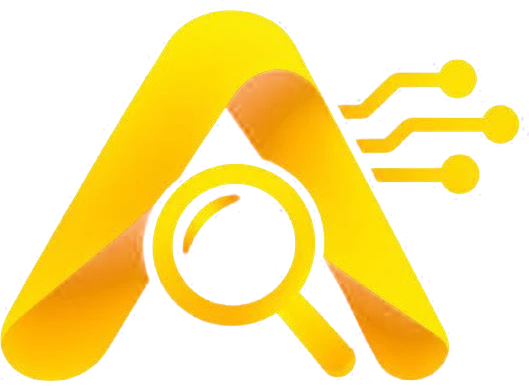
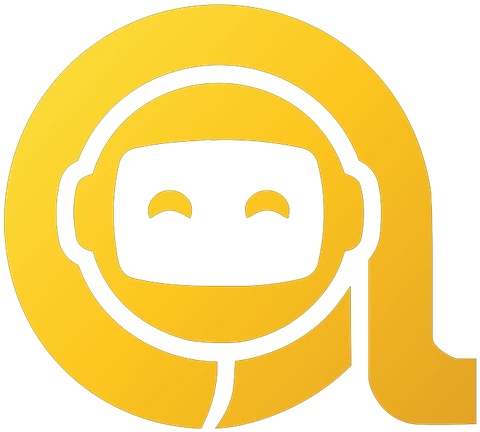
Nova identidade visual achei ai (cores, Quicksand, símbolo)

diff --git a/index.html b/index.html
@@ -3,36 +3,36 @@
 <head>
 <meta charset="utf-8">
 <meta name="viewport" content="width=device-width, initial-scale=1, viewport-fit=cover">
-<title>Achei · A IA de Xinguara no WhatsApp</title>
-<meta name="description" content="Achei: a inteligência artificial no WhatsApp que encontra os comércios de Xinguara. Preço, cardápio, horário e contato numa mensagem.">
-<meta name="theme-color" content="#0C0B08">
+<title>achei ai · A IA de Xinguara no WhatsApp</title>
+<meta name="description" content="achei ai: a inteligência artificial no WhatsApp que encontra os comércios de Xinguara. Preço, cardápio, horário e contato numa mensagem.">
+<meta name="theme-color" content="#000000">
 <link rel="icon" type="image/png" sizes="32x32" href="img/achei-fav32.png">
 <link rel="apple-touch-icon" href="img/achei-touch.png">
 <link rel="preconnect" href="https://fonts.googleapis.com">
 <link rel="preconnect" href="https://fonts.gstatic.com" crossorigin>
-<link href="https://fonts.googleapis.com/css2?family=Unbounded:wght@500;700&family=Inter:wght@400;500;600&display=swap" rel="stylesheet">
+<link href="https://fonts.googleapis.com/css2?family=Quicksand:wght@400;500;600;700&display=swap" rel="stylesheet">
 <link rel="preload" as="image" href="img/f-burger.webp">
 <style>
 :root{
-  --bg:#0C0B08; --bg2:#15130E; --bg3:#1E1B14; --linha:#2B271D;
-  --am:#FFD400; --am2:#F2A500; --creme:#F4F0E4; --txt:#CFCABB; --sec:#8F8977;
+  --bg:#000; --bg2:#0D0E10; --bg3:#1C1E22; --linha:#32353C;
+  --am:#FCC51F; --am2:#E3A225; --grad:linear-gradient(135deg,#FBE240,#FCC51F 55%,#E3A225); --creme:#fff; --txt:#CFCABB; --sec:#8F8977;
   --ease:cubic-bezier(.2,.7,.2,1); --spring:cubic-bezier(.34,1.56,.64,1);
   --gut:clamp(22px,4vw,48px); --sh:clamp(600px,100svh,1000px);
   --wa-bg:#0B141A; --wa-in:#202C33; --wa-out:#005C4B; --wa-bar:#202C33; --wa-txt:#E9EDEF; --wa-sub:#8696A0;
 }
 *{box-sizing:border-box;margin:0;padding:0}
 html{background:var(--bg);scroll-behavior:smooth}
-body{background:var(--bg);color:var(--txt);font:16px/1.6 Inter,system-ui,sans-serif;-webkit-font-smoothing:antialiased;overflow-x:hidden}
+body{background:var(--bg);color:var(--txt);font:16px/1.6 Quicksand,system-ui,sans-serif;-webkit-font-smoothing:antialiased;overflow-x:hidden}
 a{color:inherit;text-decoration:none}
 img{display:block}
-h1,h2,h3{font-family:Unbounded,Inter,sans-serif;color:var(--creme);font-weight:700;letter-spacing:-.035em;line-height:1.02}
+h1,h2,h3{font-family:Quicksand,sans-serif;color:var(--creme);font-weight:700;letter-spacing:-.02em;line-height:1.02}
 .wrap{width:100%;max-width:1280px;margin:0 auto;padding:0 var(--gut)}
 .am{color:var(--am)}
 
 /* ===== intro ===== */
 .intro{position:fixed;inset:0;z-index:100;background:var(--bg);display:grid;place-items:center;clip-path:inset(0 0 0 0);transition:clip-path 1s var(--ease)}
 .intro img{width:150px;height:auto;opacity:0;transform:scale(.6) translateY(20px);animation:simb 1.1s var(--spring) .15s forwards}
-.intro span{position:absolute;bottom:calc(50% - 110px);font-family:Unbounded;font-weight:700;color:var(--creme);letter-spacing:.18em;font-size:20px;opacity:0;animation:pal .7s var(--ease) .7s forwards}
+.intro span{position:absolute;bottom:calc(50% - 110px);font-family:Quicksand;font-weight:700;color:var(--creme);letter-spacing:.04em;font-size:20px;opacity:0;animation:pal .7s var(--ease) .7s forwards}
 @keyframes simb{to{opacity:1;transform:none}}
 @keyframes pal{to{opacity:1;letter-spacing:.32em}}
 .pronto .intro{clip-path:inset(0 0 100% 0)}
@@ -45,7 +45,7 @@ header.sol{padding-top:10px}
 header.sol .nav{max-width:1080px;height:60px;background:rgba(21,19,14,.82);backdrop-filter:blur(16px);-webkit-backdrop-filter:blur(16px);border-color:var(--linha);box-shadow:0 18px 40px -20px rgba(0,0,0,.8)}
 .marca{display:flex;align-items:center;gap:10px;height:100%}
 .marca img{height:30px;width:auto}
-.marca b{font-family:Unbounded;font-weight:700;font-size:21px;color:var(--creme);letter-spacing:.04em;line-height:1}
+.marca b{font-family:Quicksand;font-weight:700;font-size:21px;color:var(--creme);letter-spacing:.04em;line-height:1}
 .links{display:flex;gap:34px;font-size:15px;font-weight:500;color:var(--sec)}
 .links a{position:relative;transition:color .25s}
 .links a:after{content:"";position:absolute;left:0;right:0;bottom:-6px;height:2px;background:var(--am);transform:scaleX(0);transition:transform .35s var(--ease)}
@@ -54,8 +54,8 @@ header.sol .nav{max-width:1080px;height:60px;background:rgba(21,19,14,.82);backd
 .btn:hover{transform:translateY(-2px)}
 .btn:active{transform:scale(.97)}
 .btn svg{flex:none}
-.btn-am{background:var(--am);color:#17140A;box-shadow:0 12px 30px -12px rgba(255,212,0,.6)}
-.btn-am:hover{background:#FFE14D;box-shadow:0 16px 36px -10px rgba(255,212,0,.8)}
+.btn-am{background:var(--grad);color:#32353C;box-shadow:0 12px 30px -12px rgba(252,197,31,.6)}
+.btn-am:hover{background:#FFE14D;box-shadow:0 16px 36px -10px rgba(252,197,31,.8)}
 .btn-am:after{content:"";position:absolute;top:0;bottom:0;left:-50%;width:35%;background:linear-gradient(100deg,transparent,rgba(255,255,255,.6),transparent);transform:skewX(-20deg);animation:brilho 5s 3s infinite}
 @keyframes brilho{0%,72%{left:-50%}100%{left:130%}}
 .btn-esc{background:var(--bg);color:var(--creme)}
@@ -67,7 +67,7 @@ header.sol .nav{max-width:1080px;height:60px;background:rgba(21,19,14,.82);backd
 
 /* ===== herói ===== */
 .hero{position:relative;height:100svh;min-height:560px;display:flex;align-items:center;overflow:hidden;padding:96px 0 100px}
-.hero .luz{position:absolute;inset:0;background:linear-gradient(115deg,transparent 40%,rgba(255,212,0,.10) 62%,transparent 80%),linear-gradient(180deg,transparent 60%,rgba(242,165,0,.06));pointer-events:none}
+.hero .luz{position:absolute;inset:0;background:linear-gradient(115deg,transparent 40%,rgba(252,197,31,.10) 62%,transparent 80%),linear-gradient(180deg,transparent 60%,rgba(242,165,0,.06));pointer-events:none}
 .hero .wrap{position:relative;height:100%;display:grid;grid-template-columns:1.05fr .95fr;gap:24px;align-items:center}
 .hero h1{font-size:clamp(40px,min(5.2vw,9.4svh),84px)}
 .ln{display:block;overflow:hidden;padding-bottom:.08em;margin-bottom:-.08em}
@@ -75,7 +75,7 @@ header.sol .nav{max-width:1080px;height:60px;background:rgba(21,19,14,.82);backd
 .pronto .ln>span{transform:none}
 .pronto .ln:nth-child(2)>span{transition-delay:.12s}
 .pronto .ln:nth-child(3)>span{transition-delay:.24s}
-.marcador{position:relative;display:inline-block;color:#17140A;padding:0 .14em;margin-left:-.06em}
+.marcador{position:relative;display:inline-block;color:#32353C;padding:0 .14em;margin-left:-.06em}
 .marcador:before{content:"";position:absolute;inset:.1em 0 .02em;background:var(--am);border-radius:.14em;transform:scaleX(0);transform-origin:left;transition:transform .8s var(--ease) .9s;z-index:-1}
 .pronto .marcador:before{transform:scaleX(1)}
 .marcador{z-index:0}
@@ -94,7 +94,7 @@ header.sol .nav{max-width:1080px;height:60px;background:rgba(21,19,14,.82);backd
 .palco{position:relative;height:100%;max-height:760px}
 .fone{position:absolute;left:50%;top:50%;width:300px;height:633px;margin:-316px 0 0 -150px;transform:scale(var(--k,1)) translateY(60px);opacity:0;transition:opacity 1s var(--ease) .3s,transform 1.3s var(--spring) .3s;z-index:3}
 .pronto .fone{opacity:1;transform:scale(var(--k,1))}
-.casco{position:absolute;inset:0;border-radius:48px;background:linear-gradient(145deg,#3A3730,#16140F 40%,#26231C);padding:10px;box-shadow:inset 0 0 0 1.5px #4A463B,0 50px 90px -30px rgba(0,0,0,.95),0 30px 60px -40px rgba(255,212,0,.25)}
+.casco{position:absolute;inset:0;border-radius:48px;background:linear-gradient(145deg,#3A3730,#16140F 40%,#26231C);padding:10px;box-shadow:inset 0 0 0 1.5px #4A463B,0 50px 90px -30px rgba(0,0,0,.95),0 30px 60px -40px rgba(252,197,31,.25)}
 .casco:before{content:"";position:absolute;right:-3px;top:22%;width:3px;height:64px;border-radius:2px;background:#2C2922}
 .tela{position:relative;height:100%;border-radius:39px;overflow:hidden;background:var(--wa-bg);display:flex;flex-direction:column}
 .ilha{position:absolute;top:9px;left:50%;width:86px;height:24px;border-radius:14px;background:#000;transform:translateX(-50%);z-index:5}
@@ -169,16 +169,16 @@ header.sol .nav{max-width:1080px;height:60px;background:rgba(21,19,14,.82);backd
 
 /* ===== faixa ===== */
 .faixa-w{overflow:hidden;padding:26px 0}
-.faixa{position:relative;z-index:2;background:var(--am);color:#17140A;padding:18px 0;overflow:hidden;transform:rotate(-1.6deg);margin:0 -40px;box-shadow:0 24px 50px -24px rgba(255,212,0,.45)}
-.trilho{display:flex;width:max-content;animation:anda 36s linear infinite;font-family:Unbounded;font-weight:700;font-size:clamp(18px,2vw,28px);letter-spacing:-.02em}
+.faixa{position:relative;z-index:2;background:var(--grad);color:#32353C;padding:18px 0;overflow:hidden;transform:rotate(-1.6deg);margin:0 -40px;box-shadow:0 24px 50px -24px rgba(252,197,31,.45)}
+.trilho{display:flex;width:max-content;animation:anda 36s linear infinite;font-family:Quicksand;font-weight:700;font-size:clamp(18px,2vw,28px);letter-spacing:-.02em}
 .trilho span{display:flex;align-items:center;gap:36px;padding-right:36px;white-space:nowrap}
-.trilho span:after{content:"";width:13px;height:13px;background:#17140A;border-radius:3px;transform:rotate(45deg)}
+.trilho span:after{content:"";width:13px;height:13px;background:#32353C;border-radius:3px;transform:rotate(45deg)}
 @keyframes anda{to{transform:translateX(-50%)}}
 
 /* ===== seções ===== */
 .scr{position:relative;padding:84px 0 64px}
 @media(min-width:1024px){.scr{height:var(--sh);padding:calc(var(--sh)*.1) 0 calc(var(--sh)*.06);display:flex;flex-direction:column;justify-content:center}}
-.sobre{font-size:13px;font-weight:600;letter-spacing:.14em;text-transform:uppercase;color:var(--am);margin-bottom:18px;display:block}
+.sobre{font-size:13px;font-weight:600;letter-spacing:.02em;color:var(--am);margin-bottom:18px;display:block}
 .tit h2{font-size:clamp(30px,min(4vw,calc(var(--sh)*.066)),58px)}
 .tit p{margin-top:16px;font-size:clamp(16px,1.25vw,18px);color:var(--sec);max-width:500px}
 .rv{opacity:0;transform:translateY(40px);transition:opacity .9s var(--ease),transform 1s var(--ease)}
@@ -192,7 +192,7 @@ header.sol .nav{max-width:1080px;height:60px;background:rgba(21,19,14,.82);backd
 .cat:hover:before{transform:scale(1.02)}
 .cat .tx{position:absolute;left:22px;top:50%;transform:translateY(-50%);width:calc(54% - 44px);z-index:2}
 .cat .tx small{display:block;font-size:12px;font-weight:600;letter-spacing:.1em;text-transform:uppercase;color:rgba(244,240,228,.55);margin-bottom:6px}
-.cat .tx b{display:block;font-family:Unbounded;font-weight:700;color:var(--creme);font-size:clamp(15px,1.25vw,19px);letter-spacing:-.02em;line-height:1.1}
+.cat .tx b{display:block;font-family:Quicksand;font-weight:700;color:var(--creme);font-size:clamp(15px,1.25vw,19px);letter-spacing:-.02em;line-height:1.1}
 .cat .tx span{display:block;color:rgba(244,240,228,.6);font-size:14px;margin-top:6px}
 .cat .ob{position:absolute;right:14px;bottom:9%;width:43%;z-index:1}
 .cat .ob .fl{animation:flut 7s ease-in-out infinite}
@@ -210,13 +210,13 @@ header.sol .nav{max-width:1080px;height:60px;background:rgba(21,19,14,.82);backd
 .como .wrap{display:grid;grid-template-columns:.95fr 1.05fr;gap:clamp(30px,6vw,90px);align-items:center}
 .passos{margin-top:36px;display:grid;gap:10px}
 .passo{display:grid;grid-template-columns:auto 1fr;gap:18px;padding:20px 22px;border-radius:22px;border:1px solid var(--linha);background:transparent;cursor:pointer;text-align:left;color:inherit;font:inherit;transition:background .4s,border-color .4s}
-.passo .n{font-family:Unbounded;font-weight:700;font-size:15px;width:40px;height:40px;border-radius:12px;display:grid;place-items:center;background:var(--bg3);color:var(--sec);transition:background .4s,color .4s}
+.passo .n{font-family:Quicksand;font-weight:700;font-size:15px;width:40px;height:40px;border-radius:12px;display:grid;place-items:center;background:var(--bg3);color:var(--sec);transition:background .4s,color .4s}
 .passo h3{font-size:19px;letter-spacing:-.02em}
 .passo p{color:var(--sec);font-size:15px;margin-top:4px}
 .passo .bar{grid-column:1/-1;height:3px;border-radius:2px;background:var(--linha);overflow:hidden;display:none}
 .passo .bar i{display:block;height:100%;width:0;background:var(--am)}
 .passo.at{background:var(--bg2);border-color:#3B3628}
-.passo.at .n{background:var(--am);color:#17140A}
+.passo.at .n{background:var(--am);color:#32353C}
 .passo.at .bar{display:block}
 .passo.at .bar i{animation:enche 5s linear forwards}
 @keyframes enche{to{width:100%}}
@@ -228,23 +228,23 @@ header.sol .nav{max-width:1080px;height:60px;background:rgba(21,19,14,.82);backd
 @media(max-width:1023px){.como .wrap{grid-template-columns:1fr}.vitrine{height:560px}}
 
 /* para comércios */
-.com .painel{position:relative;border-radius:40px;background:var(--am);color:#17140A;display:grid;grid-template-columns:1fr 1.1fr;align-items:center;min-height:calc(var(--sh)*.66);margin-top:calc(var(--sh)*.08)}
+.com .painel{position:relative;border-radius:40px;background:var(--grad);color:#32353C;display:grid;grid-template-columns:1fr 1.1fr;align-items:center;min-height:calc(var(--sh)*.66);margin-top:calc(var(--sh)*.08)}
 .com .painel .fx{position:absolute;inset:0;border-radius:inherit;overflow:hidden;pointer-events:none}
 .com .painel .fx:before{content:"";position:absolute;right:-6%;top:-20%;width:58%;height:140%;background:url(img/achei-simbolo.webp) center/contain no-repeat;opacity:.09;filter:brightness(0)}
 .pessoa{position:relative;align-self:end;height:100%;min-height:inherit}
 .pessoa{container-type:size}
 .pessoa img{position:absolute;bottom:0;left:50%;transform:translateX(-50%);height:min(116cqh,calc(96cqw * 1329 / 900));width:auto;max-width:none}
 .com .txt{position:relative;padding:calc(var(--sh)*.05) clamp(28px,4vw,60px) calc(var(--sh)*.05) 0}
-.com h2{color:#17140A;font-size:clamp(28px,min(3.4vw,calc(var(--sh)*.058)),50px)}
+.com h2{color:#32353C;font-size:clamp(28px,min(3.4vw,calc(var(--sh)*.058)),50px)}
 .com .sobre{color:#5C4700}
 .com .txt>p{margin:14px 0 24px;color:#4A3B05;font-size:clamp(15px,1.2vw,17px);max-width:470px}
 .planos{display:grid;gap:10px;margin-bottom:26px}
 .plano{display:flex;align-items:center;gap:14px;background:rgba(23,20,10,.07);border-radius:18px;padding:15px 18px;transition:background .3s,transform .35s var(--ease)}
 .plano:hover{background:rgba(23,20,10,.12);transform:translateX(5px)}
-.plano .ic{flex:none;width:38px;height:38px;border-radius:11px;background:#17140A;display:grid;place-items:center}
-.plano b{font-family:Unbounded;font-weight:700;font-size:16px;letter-spacing:-.02em;display:block}
+.plano .ic{flex:none;width:38px;height:38px;border-radius:11px;background:#32353C;display:grid;place-items:center}
+.plano b{font-family:Quicksand;font-weight:700;font-size:16px;letter-spacing:-.02em;display:block}
 .plano span{font-size:14px;color:#4A3B05;line-height:1.35;display:block}
-.plano.top{background:#17140A;color:var(--creme)}
+.plano.top{background:#32353C;color:var(--creme)}
 .plano.top span{color:#B9B29E}
 .plano.top .ic{background:var(--am)}
 @media(max-width:1023px){
@@ -320,11 +320,11 @@ footer{padding-bottom:120px !important}
 </head>
 <body>
 
-<div class="intro" aria-hidden="true"><img src="img/achei-simbolo.webp" alt=""><span>ACHEI</span></div>
+<div class="intro" aria-hidden="true"><img src="img/achei-simbolo.webp" alt=""><span>achei ai</span></div>
 
 <header id="topo">
   <div class="nav">
-    <a class="marca" href="#inicio" aria-label="Achei, início"><img src="img/achei-simbolo.webp" alt="" width="41" height="30"><b>ACHEI</b></a>
+    <a class="marca" href="#inicio" aria-label="Achei, início"><img src="img/achei-simbolo.webp" alt="" width="36" height="32"><b>achei ai</b></a>
     <nav class="links">
       <a href="#como-funciona">Como funciona</a>
       <a href="#comercios">Para comércios</a>
@@ -346,7 +346,7 @@ footer{padding-bottom:120px !important}
           <span class="ln"><span>inteira no seu</span></span>
           <span class="ln"><span><span class="marcador">WhatsApp.</span></span></span>
         </h1>
-        <p class="lead sob s1">Pergunte o que você quer. A inteligência artificial do Achei responde na hora onde tem em Xinguara, quanto custa e se está aberto.</p>
+        <p class="lead sob s1">Pergunte o que você quer. A inteligência artificial do achei ai responde na hora onde tem em Xinguara, quanto custa e se está aberto.</p>
         <div class="cta sob s2">
           <a class="btn btn-wa" href="https://wa.me/5594992104041?text=Oi%2C%20Achei!" target="_blank" rel="noopener"><svg width="18" height="18" viewBox="0 0 24 24" fill="currentColor" aria-hidden="true"><path d="M12 2a10 10 0 00-8.6 15.1L2 22l5-1.3A10 10 0 1012 2zm0 18.2a8.2 8.2 0 01-4.2-1.2l-.3-.2-3 .8.8-2.9-.2-.3A8.2 8.2 0 1112 20.2zm4.5-6.1c-.2-.1-1.5-.7-1.7-.8s-.4-.1-.6.1-.7.8-.8 1-.3.2-.5.1a6.7 6.7 0 01-3.3-2.9c-.3-.4.2-.4.7-1.4a.5.5 0 000-.4l-.8-1.8c-.2-.5-.4-.4-.6-.4h-.5a1 1 0 00-.7.3 3 3 0 00-.9 2.2 5.2 5.2 0 001.1 2.7 11.8 11.8 0 004.5 4c1.7.7 2.3.8 3.2.6a2.7 2.7 0 001.8-1.2 2.2 2.2 0 00.1-1.2c0-.1-.2-.2-.5-.3z"/></svg>Conversar com a IA</a>
           <a class="btn btn-lin" href="#comercios">Tenho um comércio</a>
@@ -357,15 +357,15 @@ footer{padding-bottom:120px !important}
         </div>
       </div>
 
-      <div class="palco" aria-label="Exemplo de conversa com o Achei no WhatsApp">
+      <div class="palco" aria-label="Exemplo de conversa com o achei ai no WhatsApp">
         <div class="fone">
           <div class="casco"><div class="tela">
             <div class="ilha"></div>
-            <div class="st"><svg width="34" height="14" viewBox="0 0 34 14" aria-hidden="true"><text x="0" y="12" fill="#fff" font-family="Inter,system-ui" font-weight="600" font-size="12.5">19:42</text></svg><i><svg width="16" height="11" viewBox="0 0 16 11" fill="#fff"><rect x="0" y="7" width="3" height="4" rx="1"/><rect x="4.3" y="5" width="3" height="6" rx="1"/><rect x="8.6" y="2.5" width="3" height="8.5" rx="1"/><rect x="12.9" y="0" width="3" height="11" rx="1"/></svg><svg width="22" height="11" viewBox="0 0 22 11"><rect x=".5" y=".5" width="18" height="10" rx="3" fill="none" stroke="#fff" opacity=".5"/><rect x="2" y="2" width="13" height="7" rx="1.6" fill="#fff"/><rect x="19.5" y="3.5" width="1.6" height="4" rx=".8" fill="#fff" opacity=".5"/></svg></i></div>
+            <div class="st"><svg width="34" height="14" viewBox="0 0 34 14" aria-hidden="true"><text x="0" y="12" fill="#fff" font-family="Quicksand,system-ui" font-weight="600" font-size="12.5">19:42</text></svg><i><svg width="16" height="11" viewBox="0 0 16 11" fill="#fff"><rect x="0" y="7" width="3" height="4" rx="1"/><rect x="4.3" y="5" width="3" height="6" rx="1"/><rect x="8.6" y="2.5" width="3" height="8.5" rx="1"/><rect x="12.9" y="0" width="3" height="11" rx="1"/></svg><svg width="22" height="11" viewBox="0 0 22 11"><rect x=".5" y=".5" width="18" height="10" rx="3" fill="none" stroke="#fff" opacity=".5"/><rect x="2" y="2" width="13" height="7" rx="1.6" fill="#fff"/><rect x="19.5" y="3.5" width="1.6" height="4" rx=".8" fill="#fff" opacity=".5"/></svg></i></div>
             <div class="wbar">
               
               <div class="av"><img src="img/achei-simbolo.webp" alt=""></div>
-              <div><b>Achei</b><small>online</small></div>
+              <div><b>achei ai</b><small>online</small></div>
               <div class="vf"><svg width="18" height="18" viewBox="0 0 24 24" fill="none" stroke="#AEBAC1" stroke-width="2"><rect x="2" y="6" width="14" height="12" rx="2"/><path d="M16 10l6-3v10l-6-3"/></svg><svg width="17" height="17" viewBox="0 0 24 24" fill="none" stroke="#AEBAC1" stroke-width="2"><path d="M5 4h4l2 5-3 2a11 11 0 006 6l2-3 5 2v4a2 2 0 01-2 2A17 17 0 013 6a2 2 0 012-2"/></svg></div>
             </div>
             <div class="wa" id="chatHero">
@@ -374,12 +374,12 @@ footer{padding-bottom:120px !important}
               <div class="b in foto"><img src="img/f-burger.webp" alt="Hambúrguer artesanal"><p>🍔 <b>Hamburgueria do Centro</b><br>X-bacon artesanal <span class="pr">R$ 29,90</span><br>Aberto até 23h · faz entrega <span class="h">19:41</span></p></div>
               <div class="b in">Tem mais 2 abertos perto de você. Quer que eu mande o cardápio completo? <span class="h">19:41</span></div>
             </div>
-            <div class="wcomp"><div><svg width="70" height="16" viewBox="0 0 70 16" aria-hidden="true"><text x="0" y="12" fill="#8696A0" font-family="Inter,system-ui" font-size="13">Mensagem</text></svg></div><span><svg width="16" height="16" viewBox="0 0 24 24" fill="#fff"><path d="M12 15a3 3 0 003-3V6a3 3 0 00-6 0v6a3 3 0 003 3zm5-3a5 5 0 01-10 0H5a7 7 0 006 6.9V21h2v-2.1A7 7 0 0019 12z"/></svg></span></div>
+            <div class="wcomp"><div><svg width="70" height="16" viewBox="0 0 70 16" aria-hidden="true"><text x="0" y="12" fill="#8696A0" font-family="Quicksand,system-ui" font-size="13">Mensagem</text></svg></div><span><svg width="16" height="16" viewBox="0 0 24 24" fill="#fff"><path d="M12 15a3 3 0 003-3V6a3 3 0 00-6 0v6a3 3 0 003 3zm5-3a5 5 0 01-10 0H5a7 7 0 006 6.9V21h2v-2.1A7 7 0 0019 12z"/></svg></span></div>
           </div></div>
           <div class="pd pd1"><div class="fl"><img src="img/c-burger.webp" alt="" width="429" height="379"></div></div>
           <div class="pd pd2"><div class="fl"><img src="img/c-acai.webp" alt="" width="406" height="390"></div></div>
           <div class="pd pd3"><div class="fl"><img src="img/c-pizza.webp" alt="" width="468" height="441"></div></div>
-          <div class="chip ch1"><span class="q"><svg width="16" height="16" viewBox="0 0 24 24" fill="none" stroke="#17140A" stroke-width="2.4" stroke-linecap="round"><path d="M12 3a3 3 0 013 3v6a3 3 0 01-6 0V6a3 3 0 013-3zM5 11a7 7 0 0014 0M12 18v3"/></svg></span><span><small>Pode mandar</small><b>texto ou áudio</b></span></div>
+          <div class="chip ch1"><span class="q"><svg width="16" height="16" viewBox="0 0 24 24" fill="none" stroke="#32353C" stroke-width="2.4" stroke-linecap="round"><path d="M12 3a3 3 0 013 3v6a3 3 0 01-6 0V6a3 3 0 013-3zM5 11a7 7 0 0014 0M12 18v3"/></svg></span><span><small>Pode mandar</small><b>texto ou áudio</b></span></div>
       </div>
     </div>
   </section>
@@ -395,7 +395,7 @@ footer{padding-bottom:120px !important}
   <section class="scr cats" id="categorias">
     <div class="wrap">
       <div class="topo">
-          <div class="tit rv"><span class="sobre">O que tem no Achei</span><h2>Do lanche ao remédio,<br>é só perguntar.</h2></div>
+          <div class="tit rv"><span class="sobre">O que tem no achei ai</span><h2>Do lanche ao remédio,<br>é só perguntar.</h2></div>
         <p class="rv" style="max-width:360px;color:var(--sec)">Cada comércio da cidade aparece com foto, preço, horário e o botão pra chamar no WhatsApp.</p>
       </div>
       <div class="trilha" data-carrossel data-sangra>
@@ -414,10 +414,10 @@ footer{padding-bottom:120px !important}
   <section class="scr como" id="como-funciona">
     <div class="wrap">
       <div>
-        <div class="tit rv"><span class="sobre">Como funciona</span><h2>Simples como mandar um oi.</h2><p>Sem baixar aplicativo e sem cadastro. É só salvar o número do Achei.</p></div>
+        <div class="tit rv"><span class="sobre">Como funciona</span><h2>Simples como mandar um oi.</h2><p>Sem baixar aplicativo e sem cadastro. É só salvar o número do achei ai.</p></div>
         <div class="passos rv" id="passos">
           <button class="passo at" data-i="0"><span class="n">1</span><span><h3>Você pergunta</h3><p>Do seu jeito, por texto ou áudio.</p></span><span class="bar"><i></i></span></button>
-          <button class="passo" data-i="1"><span class="n">2</span><span><h3>O Achei procura</h3><p>Ele separa os comércios da cidade que têm o que você quer.</p></span><span class="bar"><i></i></span></button>
+          <button class="passo" data-i="1"><span class="n">2</span><span><h3>O achei ai procura</h3><p>Ele separa os comércios da cidade que têm o que você quer.</p></span><span class="bar"><i></i></span></button>
           <button class="passo" data-i="2"><span class="n">3</span><span><h3>Você resolve</h3><p>Preço, localização e o contato da loja na mesma conversa.</p></span><span class="bar"><i></i></span></button>
         </div>
       </div>
@@ -425,8 +425,8 @@ footer{padding-bottom:120px !important}
         <div class="bg" id="vbg"></div>
         <div class="fone"><div class="casco"><div class="tela">
           <div class="ilha"></div>
-          <div class="st"><svg width="34" height="14" viewBox="0 0 34 14" aria-hidden="true"><text x="0" y="12" fill="#fff" font-family="Inter,system-ui" font-weight="600" font-size="12.5">10:15</text></svg><i></i></div>
-          <div class="wbar"><div class="av"><img src="img/achei-simbolo.webp" alt=""></div><div><b>Achei</b><small>online</small></div></div>
+          <div class="st"><svg width="34" height="14" viewBox="0 0 34 14" aria-hidden="true"><text x="0" y="12" fill="#fff" font-family="Quicksand,system-ui" font-weight="600" font-size="12.5">10:15</text></svg><i></i></div>
+          <div class="wbar"><div class="av"><img src="img/achei-simbolo.webp" alt=""></div><div><b>achei ai</b><small>online</small></div></div>
           <div class="wa" style="position:relative">
             <div class="cena at" data-c="0"><div class="wa" style="position:absolute;inset:0">
               <div class="dia">HOJE</div>
@@ -443,7 +443,7 @@ footer{padding-bottom:120px !important}
               <div class="b in v">Precisando, é só perguntar 😉 <span class="h">10:15</span></div>
             </div></div>
           </div>
-          <div class="wcomp"><div><svg width="70" height="16" viewBox="0 0 70 16" aria-hidden="true"><text x="0" y="12" fill="#8696A0" font-family="Inter,system-ui" font-size="13">Mensagem</text></svg></div><span><svg width="16" height="16" viewBox="0 0 24 24" fill="#fff"><path d="M12 15a3 3 0 003-3V6a3 3 0 00-6 0v6a3 3 0 003 3zm5-3a5 5 0 01-10 0H5a7 7 0 006 6.9V21h2v-2.1A7 7 0 0019 12z"/></svg></span></div>
+          <div class="wcomp"><div><svg width="70" height="16" viewBox="0 0 70 16" aria-hidden="true"><text x="0" y="12" fill="#8696A0" font-family="Quicksand,system-ui" font-size="13">Mensagem</text></svg></div><span><svg width="16" height="16" viewBox="0 0 24 24" fill="#fff"><path d="M12 15a3 3 0 003-3V6a3 3 0 00-6 0v6a3 3 0 003 3zm5-3a5 5 0 01-10 0H5a7 7 0 006 6.9V21h2v-2.1A7 7 0 0019 12z"/></svg></span></div>
         </div></div></div>
       </div>
     </div>
@@ -458,10 +458,10 @@ footer{padding-bottom:120px !important}
         <div class="txt">
           <span class="sobre">Para comércios</span>
           <h2>Sua loja na frente de quem já quer comprar.</h2>
-          <p>Quando alguém pergunta pelo que você vende, o Achei indica o seu negócio com foto, preço e o seu WhatsApp.</p>
+          <p>Quando alguém pergunta pelo que você vende, o achei ai indica o seu negócio com foto, preço e o seu WhatsApp.</p>
           <div class="planos">
             <div class="plano"><span class="ic"><svg width="18" height="18" viewBox="0 0 24 24" fill="none" stroke="#FFD400" stroke-width="2.2" stroke-linecap="round" stroke-linejoin="round"><path d="M3 10h18M5 10v10h14V10M3 10l2-6h14l2 6"/></svg></span><span><b>Grátis</b><span>Nome, endereço, horário e contato nas buscas.</span></span></div>
-            <div class="plano top"><span class="ic"><svg width="18" height="18" viewBox="0 0 24 24" fill="none" stroke="#17140A" stroke-width="2.2" stroke-linecap="round" stroke-linejoin="round"><path d="M12 3l2.6 5.3 5.9.9-4.3 4.1 1 5.8L12 16.4 6.8 19.1l1-5.8L3.5 9.2l5.9-.9z"/></svg></span><span><b>Parceiro</b><span>Cardápio, preços, selo e relatório do mês.</span></span></div>
+            <div class="plano top"><span class="ic"><svg width="18" height="18" viewBox="0 0 24 24" fill="none" stroke="#32353C" stroke-width="2.2" stroke-linecap="round" stroke-linejoin="round"><path d="M12 3l2.6 5.3 5.9.9-4.3 4.1 1 5.8L12 16.4 6.8 19.1l1-5.8L3.5 9.2l5.9-.9z"/></svg></span><span><b>Parceiro</b><span>Cardápio, preços, selo e relatório do mês.</span></span></div>
             <div class="plano"><span class="ic"><svg width="18" height="18" viewBox="0 0 24 24" fill="none" stroke="#FFD400" stroke-width="2.2" stroke-linecap="round" stroke-linejoin="round"><path d="M4 20V10M10 20V4M16 20v-7M22 20H2"/></svg></span><span><b>Destaque</b><span>Primeiro da sua categoria e promoção do dia.</span></span></div>
           </div>
           <a class="btn btn-esc" href="https://wa.me/5594992104041?text=Ol%C3%A1!%20Quero%20cadastrar%20meu%20com%C3%A9rcio%20no%20Achei." target="_blank" rel="noopener"><svg width="17" height="17" viewBox="0 0 24 24" fill="none" stroke="currentColor" stroke-width="2.2" stroke-linecap="round" stroke-linejoin="round" aria-hidden="true"><path d="M3 9l1.5-5h15L21 9M3 9h18M3 9a3 3 0 006 0 3 3 0 006 0 3 3 0 006 0M5 12v8h14v-8M10 20v-5h4v5"/></svg>Cadastrar meu comércio</a>
@@ -473,11 +473,11 @@ footer{padding-bottom:120px !important}
   <!-- DÚVIDAS -->
   <section class="scr duv" id="duvidas">
     <div class="wrap">
-      <div class="tit rv"><span class="sobre">Dúvidas</span><h2>Pergunta que a gente responde.</h2><p>Toca numa pergunta e o Achei responde, do mesmo jeito que no WhatsApp.</p></div>
+      <div class="tit rv"><span class="sobre">Dúvidas</span><h2>Pergunta que a gente responde.</h2><p>Toca numa pergunta e o achei ai responde, do mesmo jeito que no WhatsApp.</p></div>
       <div class="conv rv">
-        <details class="qq" open><summary><span>Precisa pagar pra usar? <i>▾</i></span></summary><p>Não. Pra quem pergunta é grátis, é só mandar mensagem no <a href="https://wa.me/5594992104041" target="_blank" rel="noopener" style="color:#53BDEB;text-decoration:underline">WhatsApp do Achei</a>.</p></details>
+        <details class="qq" open><summary><span>Precisa pagar pra usar? <i>▾</i></span></summary><p>Não. Pra quem pergunta é grátis, é só mandar mensagem no <a href="https://wa.me/5594992104041" target="_blank" rel="noopener" style="color:#53BDEB;text-decoration:underline">WhatsApp do achei ai</a>.</p></details>
         <details class="qq"><summary><span>Ele entende áudio? <i>▾</i></span></summary><p>Entende. Pode falar do seu jeito, ele transforma em texto e procura pra você.</p></details>
-        <details class="qq"><summary><span>Os preços estão sempre certos? <i>▾</i></span></summary><p>Os parceiros atualizam o próprio cardápio. Nos outros comércios, o Achei mostra a informação pública mais recente.</p></details>
+        <details class="qq"><summary><span>Os preços estão sempre certos? <i>▾</i></span></summary><p>Os parceiros atualizam o próprio cardápio. Nos outros comércios, o achei ai mostra a informação pública mais recente.</p></details>
         <details class="qq"><summary><span>Como coloco minha loja? <i>▾</i></span></summary><p>Fala com a gente pelo telefone ou e-mail aqui embaixo. A gente cadastra e você escolhe o plano.</p></details>
       </div>
     </div>
@@ -489,7 +489,7 @@ footer{padding-bottom:120px !important}
       <div class="caixa rv">
         <div class="txt">
           <span class="sobre">Contato</span>
-          <h2>Bora colocar sua loja <span class="am">no Achei?</span></h2>
+          <h2>Bora colocar sua loja <span class="am">no achei ai?</span></h2>
           <p>Chama a gente e o seu comércio começa a aparecer pra quem procura em Xinguara.</p>
           <div class="cta"><a class="btn btn-am" href="https://wa.me/5594992104041?text=Ol%C3%A1!%20Quero%20cadastrar%20meu%20com%C3%A9rcio%20no%20Achei." target="_blank" rel="noopener"><svg width="17" height="17" viewBox="0 0 24 24" fill="none" stroke="currentColor" stroke-width="2.2" stroke-linecap="round" stroke-linejoin="round" aria-hidden="true"><path d="M3 9l1.5-5h15L21 9M3 9h18M3 9a3 3 0 006 0 3 3 0 006 0 3 3 0 006 0M5 12v8h14v-8M10 20v-5h4v5"/></svg>Cadastrar meu comércio</a><a class="btn btn-lin" href="mailto:raquel_rocha15@hotmail.com">Mandar e-mail</a></div>
         </div>
@@ -507,13 +507,13 @@ footer{padding-bottom:120px !important}
 
 <footer>
   <div class="wrap">
-    <a class="marca" href="#inicio"><img src="img/achei-simbolo.webp" alt="" width="33" height="24" style="height:24px"><b style="font-size:17px">ACHEI</b></a>
+    <a class="marca" href="#inicio"><img src="img/achei-simbolo.webp" alt="" width="27" height="24" style="height:24px"><b style="font-size:17px">achei ai</b></a>
     <span>© 2026 Achei na TV · CNPJ 41.662.277/0001-67 · Imagens ilustrativas</span>
     <a href="privacidade.html">Política de privacidade</a>
   </div>
 </footer>
 
-<a class="zap" href="https://wa.me/5594992104041?text=Oi%2C%20Achei!" target="_blank" rel="noopener" aria-label="Chame no WhatsApp e converse com a IA do Achei"><span class="ic"><svg viewBox="0 0 24 24" fill="currentColor" aria-hidden="true"><path d="M12 2a10 10 0 00-8.6 15.1L2 22l5-1.3A10 10 0 1012 2zm0 18.2a8.2 8.2 0 01-4.2-1.2l-.3-.2-3 .8.8-2.9-.2-.3A8.2 8.2 0 1112 20.2zm4.5-6.1c-.2-.1-1.5-.7-1.7-.8s-.4-.1-.6.1-.7.8-.8 1-.3.2-.5.1a6.7 6.7 0 01-3.3-2.9c-.3-.4.2-.4.7-1.4a.5.5 0 000-.4l-.8-1.8c-.2-.5-.4-.4-.6-.4h-.5a1 1 0 00-.7.3 3 3 0 00-.9 2.2 5.2 5.2 0 001.1 2.7 11.8 11.8 0 004.5 4c1.7.7 2.3.8 3.2.6a2.7 2.7 0 001.8-1.2 2.2 2.2 0 00.1-1.2c0-.1-.2-.2-.5-.3z"/></svg></span><span><b>Chame no WhatsApp</b><small>e converse com a IA do Achei</small></span></a>
+<a class="zap" href="https://wa.me/5594992104041?text=Oi%2C%20Achei!" target="_blank" rel="noopener" aria-label="Chame no WhatsApp e converse com a IA do achei ai"><span class="ic"><svg viewBox="0 0 24 24" fill="currentColor" aria-hidden="true"><path d="M12 2a10 10 0 00-8.6 15.1L2 22l5-1.3A10 10 0 1012 2zm0 18.2a8.2 8.2 0 01-4.2-1.2l-.3-.2-3 .8.8-2.9-.2-.3A8.2 8.2 0 1112 20.2zm4.5-6.1c-.2-.1-1.5-.7-1.7-.8s-.4-.1-.6.1-.7.8-.8 1-.3.2-.5.1a6.7 6.7 0 01-3.3-2.9c-.3-.4.2-.4.7-1.4a.5.5 0 000-.4l-.8-1.8c-.2-.5-.4-.4-.6-.4h-.5a1 1 0 00-.7.3 3 3 0 00-.9 2.2 5.2 5.2 0 001.1 2.7 11.8 11.8 0 004.5 4c1.7.7 2.3.8 3.2.6a2.7 2.7 0 001.8-1.2 2.2 2.2 0 00.1-1.2c0-.1-.2-.2-.5-.3z"/></svg></span><span><b>Chame no WhatsApp</b><small>e converse com a IA do achei ai</small></span></a>
 
 <script>
 (function(){
